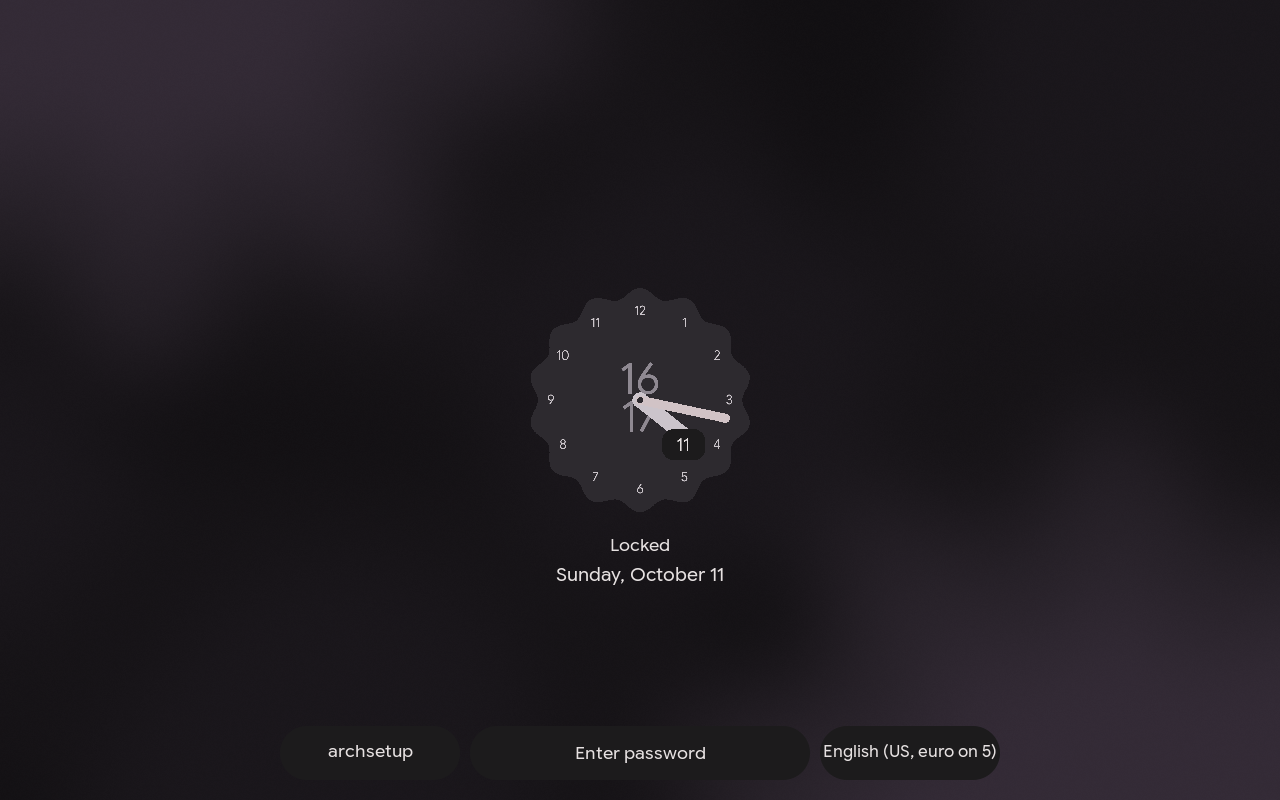
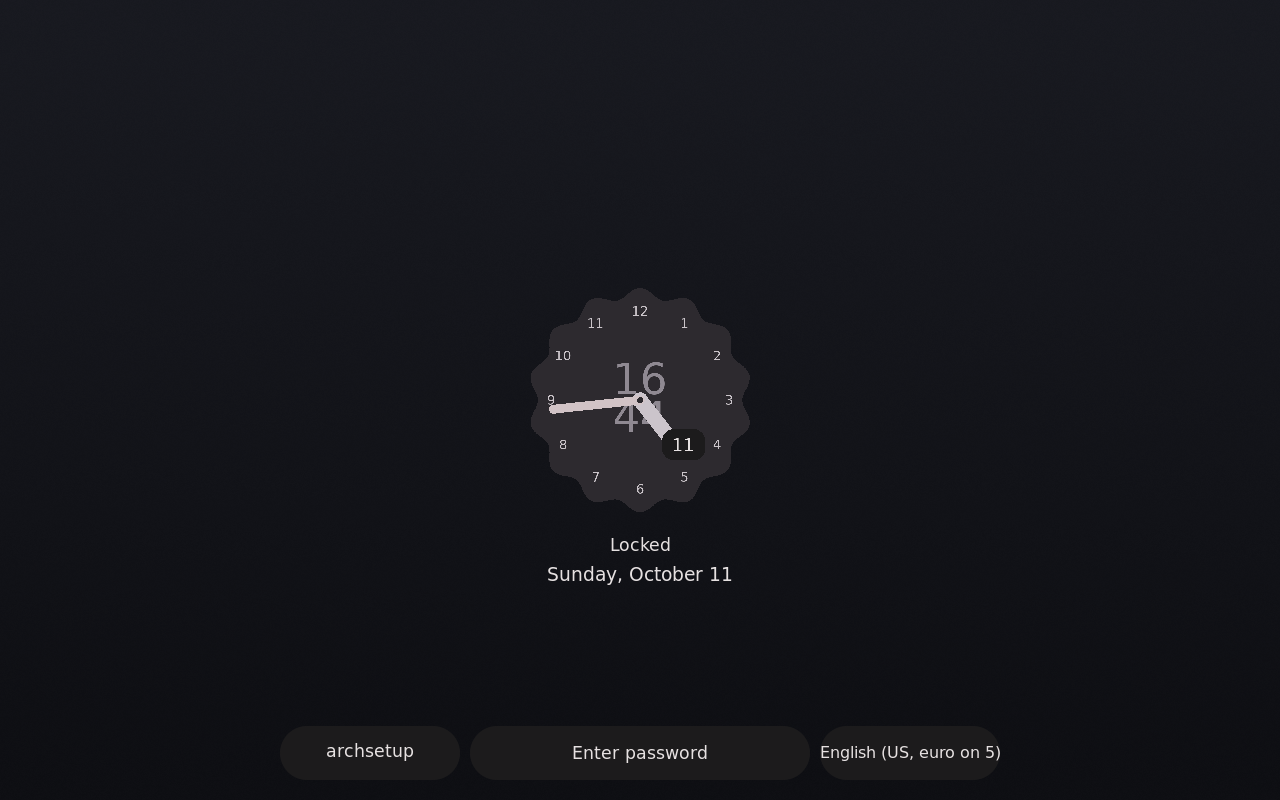
Remove confirmation from power buttons

diff --git a/roles/desktop/files/shell/shell.qml b/roles/desktop/files/shell/shell.qml
@@ -320,7 +320,7 @@ ShellRoot {
                             spacing: 10
                             Repeater {
                                 model: ["lock", "suspend", "logout", "reboot", "poweroff"]
-                                Chip { required property string modelData; text: modelData.charAt(0).toUpperCase() + modelData.slice(1); Layout.fillWidth: true; onClicked: { root.page = ""; root.action(modelData); } }
+                                Chip { required property string modelData; text: modelData === "poweroff" ? "Shutdown" : modelData.charAt(0).toUpperCase() + modelData.slice(1); Layout.fillWidth: true; onClicked: { root.page = ""; root.action(modelData); } }
                             }
                             Item { Layout.fillHeight: true }
                         }

diff --git a/tests/desktop/test_desktop.py b/tests/desktop/test_desktop.py
@@ -214,11 +214,15 @@ class DesktopTests(unittest.TestCase):
             self.actions.main('screenshot')
             run.assert_not_called()
 
-    def test_power_action_requires_confirmation(self):
-        for answer in [None, 'Cancel']:
-            with patch.object(self.actions, 'menu', return_value=answer), patch.object(self.actions, 'run') as run:
-                self.actions.main('poweroff')
-                run.assert_not_called()
+    def test_power_actions_run_directly_without_confirmation(self):
+        for action in ['poweroff', 'reboot', 'suspend', 'logout']:
+            with self.subTest(action=action), patch.object(self.actions, 'menu') as menu, patch.object(self.actions, 'run') as run:
+                self.actions.main(action)
+                menu.assert_not_called()
+                if action == 'logout':
+                    run.assert_called_once_with('hyprctl', 'dispatch', 'hl.dsp.exit()')
+                else:
+                    run.assert_called_once_with('systemctl', action)
 
     def test_theme_preserves_wallpaper_and_managed_preferences(self):
         managed = (self.profile / 'preferences.json').read_bytes()
@@ -229,6 +233,25 @@ class DesktopTests(unittest.TestCase):
         self.assertTrue(state['light'])
         self.assertEqual(state['wallpaper'], '/tmp/picture.png')
         self.assertEqual((self.profile / 'preferences.json').read_bytes(), managed)
+
+    def test_default_background_and_system_font_need_no_bundled_assets(self):
+        from PIL import Image
+        self.actions.refresh_theme({})
+        generated = self.profile / 'theme/wallpaper.png'
+        with Image.open(generated) as image:
+            image.load()
+            self.assertNotEqual(image.getpixel((0, 0)), image.getpixel((0, image.height - 1)))
+        result = subprocess.run([sys.executable, str(self.profile / 'bin/lock-visuals'), 'clock'],
+                                capture_output=True, text=True, timeout=10)
+        self.assertEqual(result.returncode, 0, result.stdout + result.stderr)
+        with Image.open(self.profile / 'theme/clock.png') as image:
+            image.load()
+        personal = self.profile / 'personal wallpaper.png'
+        Image.new('RGB', (20, 20), color='red').save(personal)
+        state = {'wallpaper': str(personal)}
+        self.actions.refresh_theme(state)
+        self.assertEqual(generated.read_bytes(), personal.read_bytes())
+        self.assertEqual(json.loads((self.profile / 'state.json').read_text())['wallpaper'], str(personal))
 
     def test_candidate_validator_rejects_invalid_lua(self):
         candidate = self.profile / 'candidate'

diff --git a/docs/desktop-validation.md b/docs/desktop-validation.md
@@ -1,9 +1,29 @@
 # Desktop validation — 2026-10-10
 
+## Asset removal and direct power actions — 2026-10-11
+
+Removed bundled third-party wallpaper/font files and their accompanying texts.
+The default background is now an original generated gradient, and typography
+comes from installed system fonts. Updated all preview screenshots to remove
+depictions of the old copied wallpaper. The migration removed the prior deployed
+copies in the test VM; explicit path checks confirmed they are absent.
+
+Shutdown, reboot, suspend and logout now execute directly without the extra
+confirmation picker. Mocked command checks cover all four actions without taking
+power actions on the workstation. The updated poweroff helper also successfully
+requested shutdown of the disposable VM without opening a picker.
+
+17 local tests pass, including original background/system-font clock rendering
+and preservation of a personal wallpaper. Repeat VM apply:
+`ok=39 changed=0 failed=0 skipped=19`; verify:
+`ok=18 changed=0 failed=0 skipped=2`. The new default lock screen boots and unlocks;
+the original gradient, system-font text, clock and overview render correctly.
+Earlier results below are historical where their asset/power behavior differs.
+
 ## Default ii appearance — 2026-10-11
 
-The general desktop appearance now follows end-4's default ii theme: the bundled
-abstract wallpaper, Google Sans Flex, 40-pixel top bar, grouped workspace/clock
+The general desktop appearance follows end-4's default ii layout, using an
+original generated gradient, system fonts, 40-pixel top bar, grouped workspace/clock
 controls, 18-pixel window corners, thin borders and muted Material colors.
 Native Hyprlock reproduces the centered scalloped clock and bottom password
 toolbar, with blurred wallpaper, user/layout labels and Caps Lock status.
@@ -16,7 +36,7 @@ Validated in the graphical QEMU guest:
   reports `unlocked login keyring` after the successful password entry.
 - Quickshell loads/reloads with no QML errors; expected portal registration
   warnings remain. Monitor reservation is `[0, 40, 0, 0]` for the top bar.
-- Clock image, default wallpaper, Google Sans font, task buttons, rounded Kitty
+- Clock image, default background, system font, task buttons, rounded Kitty
   window and live overview preview render. Fixed light-mode lock-label contrast
   and workspace 10 text clipping after screenshot inspection.
 - Repeat apply: `ok=40 changed=0 failed=0 skipped=19`; read-only verification:

diff --git a/docs/hyprland-desktop.md b/docs/hyprland-desktop.md
@@ -81,12 +81,12 @@ validated Hyprland API series.
 
 ## Configuration and controls
 
-The default appearance follows upstream's **ii** theme: its abstract wallpaper
-and Google Sans Flex typography, a 40-pixel top bar with grouped workspace/clock
+The default appearance follows the general **ii** style with an original gradient
+background, installed system typography and a 40-pixel top bar with grouped workspace/clock
 controls, muted Material surfaces, thin window borders, 5-pixel outer gaps and
 18-pixel window corners. A static scalloped clock sits on the desktop and updates
 once per minute. Existing user-selected wallpapers and light/dark choices remain
-in `state.json`; selecting the default background restores the bundled wallpaper.
+in `state.json`; selecting the default background restores the generated gradient.
 
 Upstream's default lock is a Quickshell lock surface. ArchSetup reproduces its
 centered scalloped clock, blurred wallpaper, lock/date labels and bottom password
@@ -95,7 +95,7 @@ keyboard layout flank the password field; Caps Lock and battery status are shown
 Hyprlock retains ordinary password dots; upstream's shaped password glyphs and
 lock-screen power buttons are not included in this initial appearance update.
 Power controls remain available in the desktop session menu. No animations or
-upstream AI modules are added. See [upstream source and asset licenses](desktop-source.json).
+upstream AI modules are added. No third-party artwork or font files are bundled. See [source provenance](desktop-source.json).
 
 Animations are disabled by default (`archsetup_desktop_reduced_motion: true`):
 Hyprland window/workspace effects, Hyprlock fades and input effects, and SwayNC
@@ -119,7 +119,7 @@ Network, Bluetooth and audio-device buttons open their native configuration
 applications. Brightness controls are hidden without a backlight device.
 Screenshot actions copy PNG data to the clipboard. Clipboard history offers an
 explicit clear action. The emoji picker ships a small editable starter list.
-Power actions require confirmation. Keep-awake inhibits idle locking/blanking,
+Power actions run immediately when selected. Keep-awake inhibits idle locking/blanking,
 but does not disable the before-suspend lock path.
 
 Put images in `~/Pictures/Wallpapers`, then use Wallpaper in quick settings.

diff --git a/docs/IMPLEMENTATION-STATE.md b/docs/IMPLEMENTATION-STATE.md
@@ -1,10 +1,25 @@
 # Resume checkpoint — 2026-10-11 (latest)
 
-Latest appearance change: the desktop now follows end-4's default ii look: top
+Latest user requests: remove bundled third-party assets and remove power-action
+confirmation. The copied wallpaper/font and accompanying files are removed from
+the working tree and Git index. Default backgrounds are generated gradients;
+clock and UI text use installed system fonts. Role apply removes the previously
+deployed copies at their known ArchSetup paths and refreshes the font cache.
+Personal wallpaper choices are preserved. Shutdown/reboot/suspend/logout now run
+directly. 17 local tests pass, including mocked direct-power execution and actual
+gradient/clock rendering without bundled assets. VM migration confirmed the old
+copies absent; repeated apply reports `ok=39 changed=0 failed=0 skipped=19` and
+verify reports `ok=18 changed=0 failed=0 skipped=2`. Updated screenshots show only
+the original gradient and system-font rendering. Used the direct poweroff helper
+to shut down the VM after locking its temporary test account; host credential
+files were removed. No workstation desktop changes were applied.
+
+Appearance overview (see latest changes above): the desktop now follows end-4's default ii look: top
 40px bar, grouped workspace/clock controls, neutral Material surfaces, 18px window
-corners, 1px borders and the original abstract wallpaper. Google Sans Flex is
-bundled under OFL; wallpaper is bundled with upstream GPL-3.0 and provenance in
-`docs/desktop-source.json`. No upstream shell/AI code was imported.
+corners, 1px borders, an original generated gradient and installed system fonts.
+Third-party font/wallpaper copies and their accompanying files were removed.
+`docs/desktop-source.json` records an empty bundled-assets list. No upstream
+shell/AI code was imported.
 
 Hyprlock now adapts the default Quickshell lock appearance: centered 14-scallop
 clock, blurred shared wallpaper, date/Locked labels and bottom password/user/layout

diff --git a/readme.md b/readme.md
@@ -2,8 +2,8 @@
 
 Ansible setup for an installed Arch Linux system: Hyprland, a Quickshell taskbar
 and window overview, Brave, notifications, shortcuts, themes, and Hyprlock.
-The default ii-inspired theme includes a top bar, rounded windows, Google Sans Flex,
-and the upstream abstract wallpaper. Hyprlock uses a centered scalloped clock and
+The default ii-inspired theme includes a top bar, rounded windows, system typography,
+and an original generated gradient background. Hyprlock uses a centered scalloped clock and
 a bottom password toolbar. Desktop animations are disabled by default. The custom desktop shell has no AI
 integrations.
 
@@ -147,6 +147,9 @@ preserves existing keyring contents.
 | Super+N | Notification history |
 | Super+L | Lock the screen |
 | Super+/ | All shortcuts |
+
+The Power menu's Shutdown, Reboot, Suspend and Logout actions run immediately
+when selected, without a second confirmation prompt.
 
 Check mouse feel, display resolution/refresh rate, audio and Bluetooth. Save your
 work before testing suspend. The QEMU test guest has a reproduced virtual GPU
